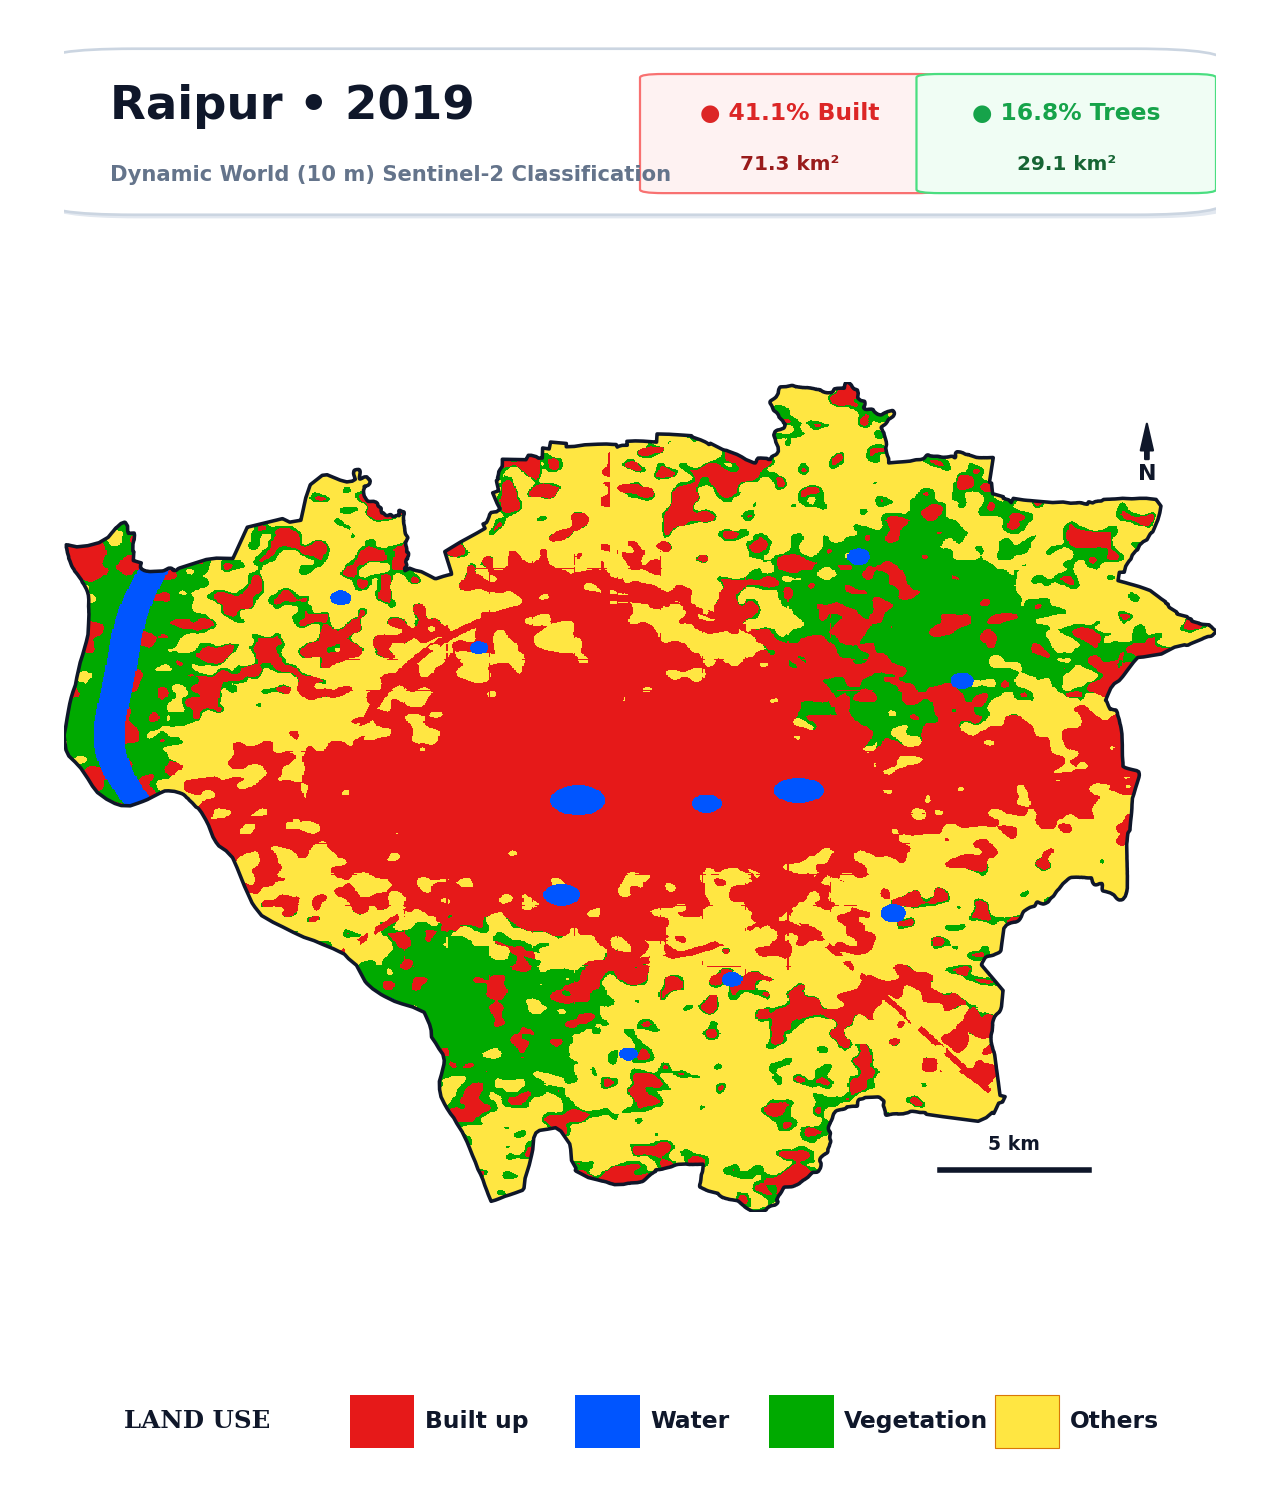
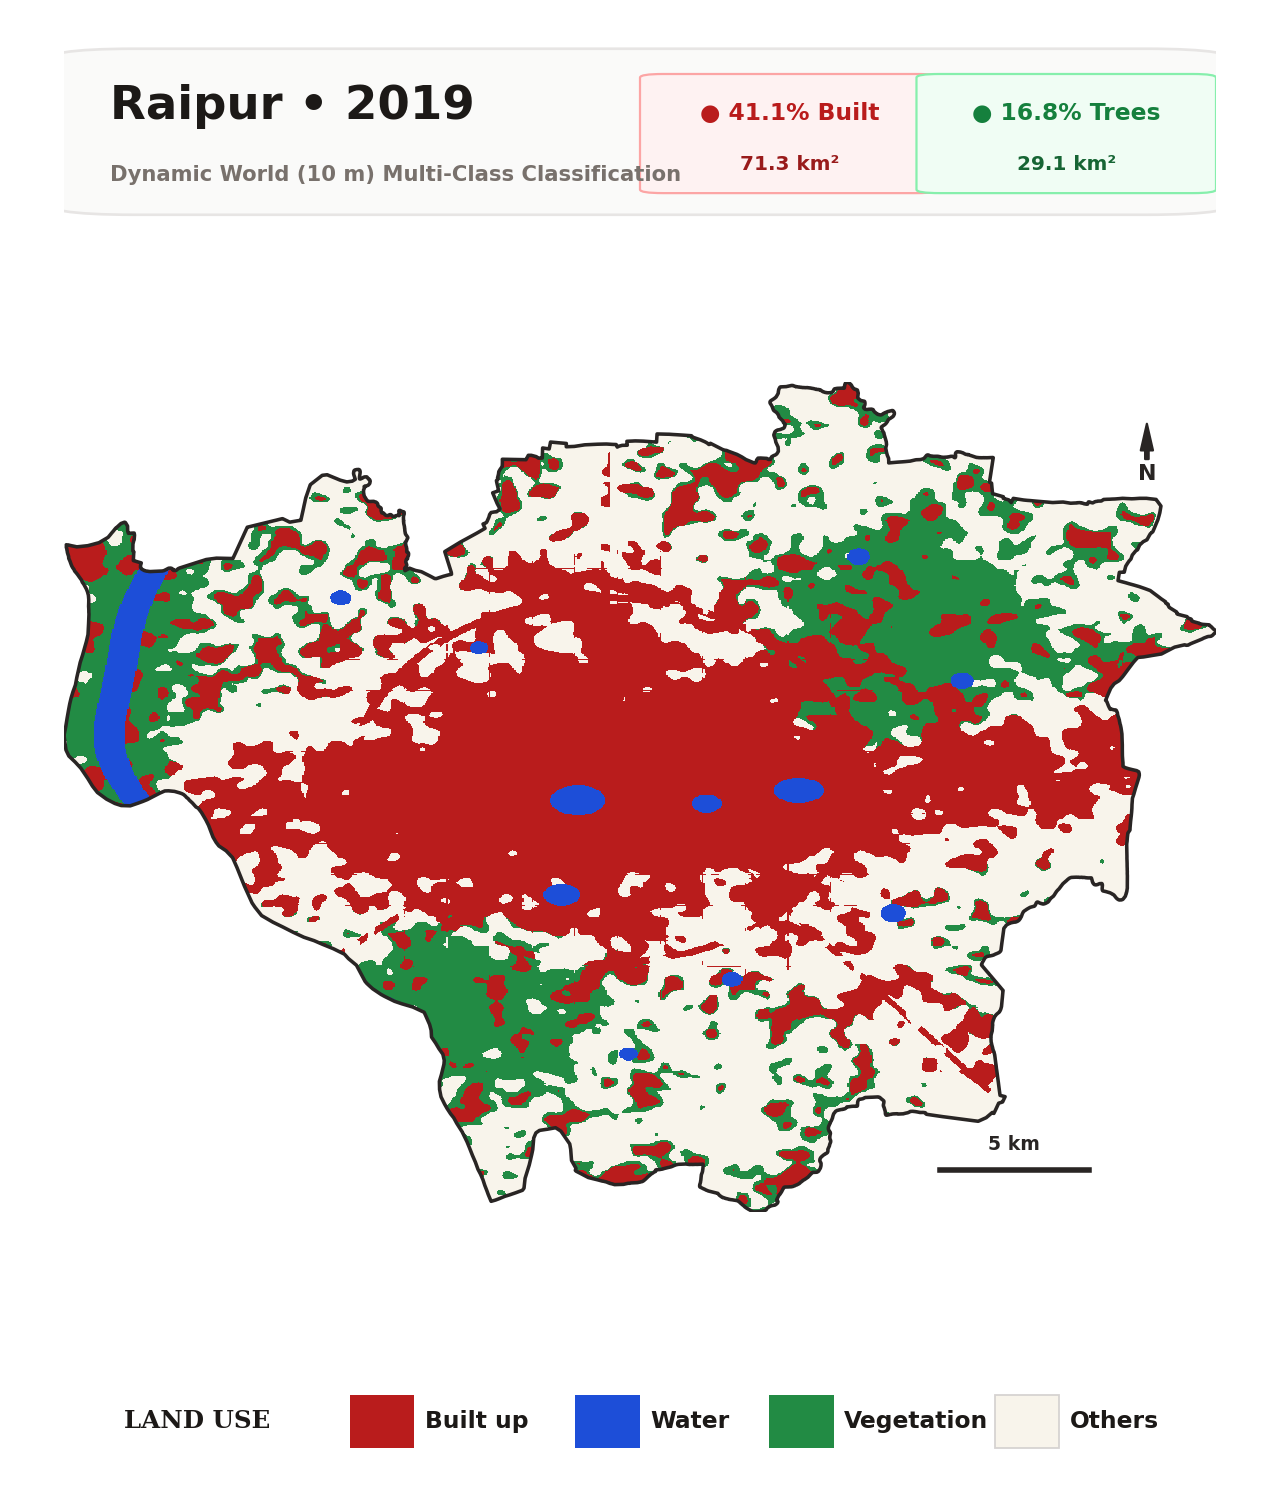
Apply harmonious Pune-inspired color palette to map, frames, and GIF

diff --git a/docs/index.html b/docs/index.html
@@ -581,7 +581,7 @@
                 <div class="story-step">
                     <h3><i class="fa-solid fa-film"></i> 3. Dynamic Temporal Output: Interactive Year Slider (2018–2025)</h3>
                     <p>
-                        Use the interactive slider or click the year pills below to scrub through each year's land cover classification. Press <strong>▶ Play</strong> to auto-animate. Classification follows standard remote sensing palette: <strong style="color:#ff0000;">Red = Built up</strong>, <strong style="color:#00aa00;">Green = Vegetation</strong>, <strong style="color:#0044ff;">Blue = Water</strong>, <strong style="color:#d4a017;">Yellow = Others</strong>.
+                        Use the interactive slider or click the year pills below to scrub through each year's land cover classification. Press <strong>▶ Play</strong> to auto-animate. Classification features a refined multi-class palette: <strong style="color:#b91c1c;">Terracotta Crimson = Built up</strong>, <strong style="color:#228b44;">Emerald Sage = Vegetation</strong>, <strong style="color:#1d4ed8;">Indigo Blue = Water</strong>, <strong style="color:#78716c;">Soft Cream = Others / Fallow</strong>.
                     </p>
 
                     <!-- Interactive Time Slider Widget -->
